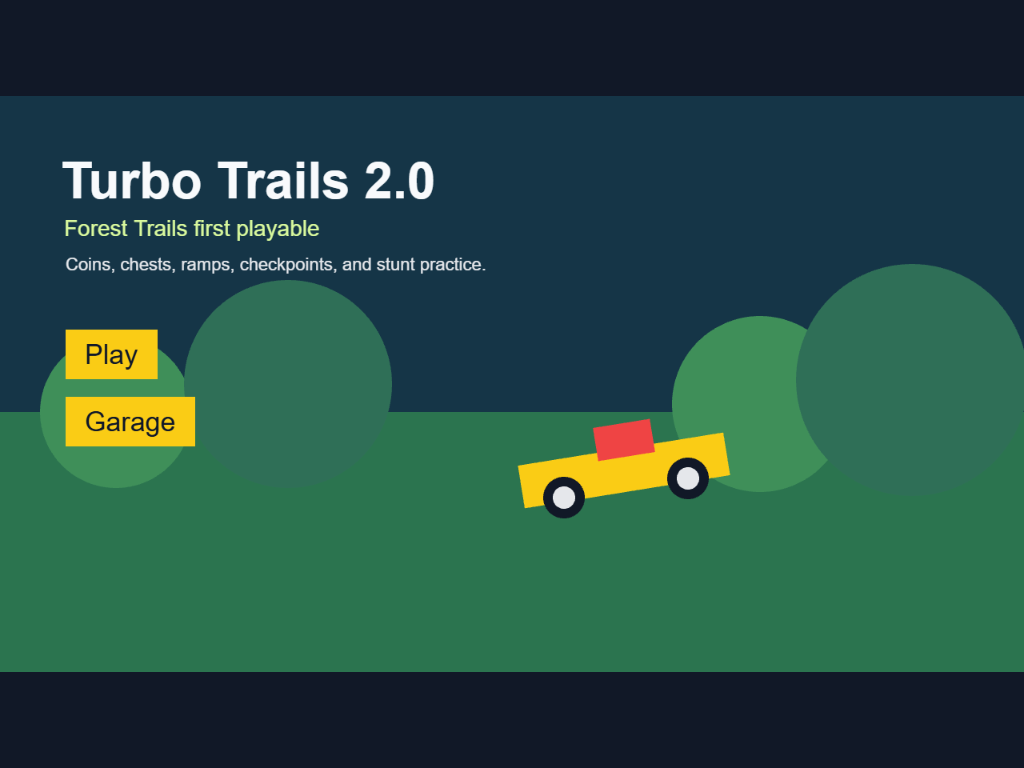
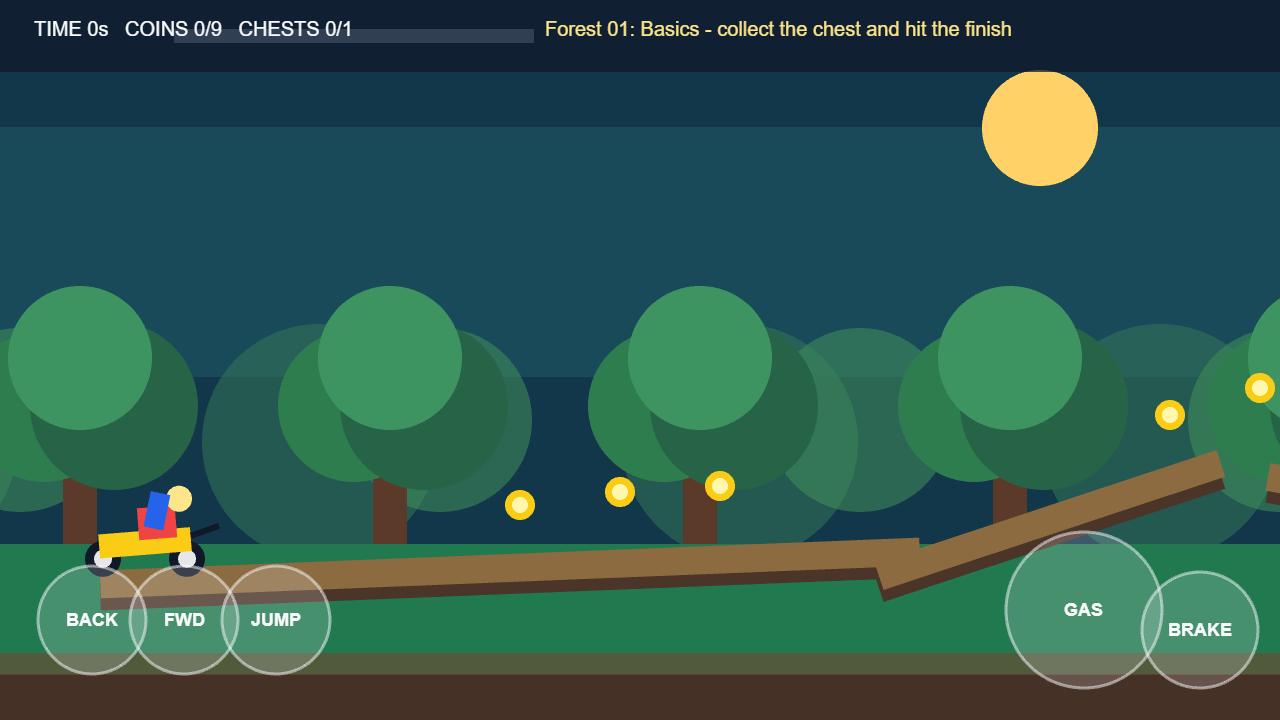
Add second forest level

diff --git a/src/data/levels/forest-02-first-flip.ts b/src/data/levels/forest-02-first-flip.ts
@@ -1,0 +1,48 @@
+import type { LevelDefinition } from '../../types/LevelDefinition';
+
+export const forest02FirstFlip: LevelDefinition = {
+  id: 'forest-02-first-flip',
+  title: 'Forest 02: First Flip',
+  worldId: 'forest',
+  targetTimes: {
+    threeStars: 34000,
+    twoStars: 50000,
+    oneStar: 70000,
+  },
+  bounds: {
+    width: 3400,
+    height: 720,
+  },
+  start: {
+    x: 145,
+    y: 486,
+    rotation: 0,
+  },
+  terrain: [
+    { id: 'start-run', x: 470, y: 570, width: 760, height: 28, rotation: -0.02, material: 'wood' },
+    { id: 'flip-ramp', x: 980, y: 500, width: 430, height: 28, rotation: -0.48, material: 'wood' },
+    { id: 'air-landing', x: 1600, y: 500, width: 470, height: 28, rotation: 0.16, material: 'wood' },
+    { id: 'checkpoint-run', x: 2110, y: 548, width: 560, height: 28, rotation: 0.04, material: 'wood' },
+    { id: 'second-kicker', x: 2600, y: 505, width: 340, height: 28, rotation: -0.34, material: 'wood' },
+    { id: 'finish-deck', x: 3100, y: 540, width: 470, height: 28, rotation: 0.08, material: 'wood' },
+  ],
+  objects: [
+    { type: 'coin', id: 'coin-1', x: 450, y: 510 },
+    { type: 'coin', id: 'coin-2', x: 550, y: 500 },
+    { type: 'coin', id: 'coin-3', x: 650, y: 494 },
+    { type: 'coin', id: 'coin-4', x: 1120, y: 365 },
+    { type: 'coin', id: 'coin-5', x: 1240, y: 320 },
+    { type: 'coin', id: 'coin-6', x: 1360, y: 330 },
+    { type: 'chest', id: 'chest-1', x: 1460, y: 348 },
+    { type: 'coin', id: 'coin-7', x: 2500, y: 420 },
+    { type: 'coin', id: 'coin-8', x: 2620, y: 370 },
+    { type: 'coin', id: 'coin-9', x: 2740, y: 390 },
+  ],
+  checkpoints: [{ id: 'checkpoint-1', x: 2050, y: 470, respawnX: 2050, respawnY: 470 }],
+  finish: {
+    x: 3260,
+    y: 456,
+    width: 64,
+    height: 150,
+  },
+};

diff --git a/src/scenes/GameScene.ts b/src/scenes/GameScene.ts
@@ -1,5 +1,5 @@
 import Phaser from 'phaser';
-import { forest01Basics } from '../data/levels/forest-01-basics';
+import { levels, type LevelId } from '../data/levels';
 import { vehicles } from '../data/vehicles';
 import { GAME_HEIGHT, isDebugEnabled } from '../game/constants';
 import { calculateScore, calculateStars } from '../systems/ScoreSystem';
@@ -28,6 +28,10 @@ interface CollectibleView {
   view: Phaser.GameObjects.GameObject & Phaser.GameObjects.Components.Visible;
 }
 
+interface GameScenePayload {
+  levelId?: LevelId;
+}
+
 export class GameScene extends Phaser.Scene {
   private inputController!: InputController;
   private bike!: Phaser.Physics.Matter.Image;
@@ -35,7 +39,7 @@ export class GameScene extends Phaser.Scene {
   private hudText!: Phaser.GameObjects.Text;
   private statusText!: Phaser.GameObjects.Text;
   private progressFill!: Phaser.GameObjects.Rectangle;
-  private readonly level: LevelDefinition = forest01Basics;
+  private level: LevelDefinition = levels['forest-01-basics'];
   private readonly vehicle: VehicleConfig = vehicles[0];
   private levelState: LevelRuntimeState = createLevelRuntimeState();
   private bikeContact: BikeContactState = createBikeContactState();
@@ -49,6 +53,10 @@ export class GameScene extends Phaser.Scene {
 
   constructor() {
     super('GameScene');
+  }
+
+  init(payload: GameScenePayload): void {
+    this.level = levels[payload.levelId ?? 'forest-01-basics'];
   }
 
   create(): void {

diff --git a/e2e/game-load.spec.ts b/e2e/game-load.spec.ts
@@ -42,3 +42,14 @@ test('opens garage placeholder from main menu', async ({ page }) => {
   await page.waitForTimeout(150);
   await expect(page.locator('canvas')).toBeVisible();
 });
+
+test('launches second forest level from level select', async ({ page }) => {
+  await page.goto('/');
+  await page.mouse.click(140, 325);
+  await page.waitForTimeout(100);
+  await page.mouse.click(180, 384);
+  await page.waitForTimeout(100);
+  await page.mouse.click(500, 360);
+  await page.waitForTimeout(250);
+  await expect(page.locator('canvas')).toBeVisible();
+});

diff --git a/src/tests/LevelState.test.ts b/src/tests/LevelState.test.ts
@@ -1,5 +1,6 @@
 import { describe, expect, it } from 'vitest';
 import { forest01Basics } from '../data/levels/forest-01-basics';
+import { levels } from '../data/levels';
 import { calculateLevelProgress, countObjects, createLevelRuntimeState } from '../systems/LevelState';
 
 describe('LevelState', () => {
@@ -18,5 +19,11 @@ describe('LevelState', () => {
   it('calculates progress from start to finish', () => {
     expect(calculateLevelProgress(forest01Basics, forest01Basics.start.x)).toBe(0);
     expect(calculateLevelProgress(forest01Basics, forest01Basics.finish.x)).toBe(1);
+  });
+
+  it('registers Forest 02 as a playable level', () => {
+    expect(levels['forest-02-first-flip'].title).toBe('Forest 02: First Flip');
+    expect(countObjects(levels['forest-02-first-flip'], 'coin')).toBe(9);
+    expect(countObjects(levels['forest-02-first-flip'], 'chest')).toBe(1);
   });
 });

diff --git a/src/data/levels/index.ts b/src/data/levels/index.ts
@@ -1,7 +1,9 @@
 import { forest01Basics } from './forest-01-basics';
+import { forest02FirstFlip } from './forest-02-first-flip';
 
 export const levels = {
   [forest01Basics.id]: forest01Basics,
+  [forest02FirstFlip.id]: forest02FirstFlip,
 };
 
 export type LevelId = keyof typeof levels;

diff --git a/src/data/worlds.ts b/src/data/worlds.ts
@@ -14,7 +14,7 @@ export const worlds: WorldDefinition[] = [
     subtitle: 'Tutorial ramps, coins, and first checkpoint.',
     status: 'available',
     color: 0x3f8f59,
-    levelIds: ['forest-01-basics'],
+    levelIds: ['forest-01-basics', 'forest-02-first-flip'],
   },
   {
     id: 'warehouse',

diff --git a/.project/projects/turbo-trails-first-playable/tasks/T-008-touch-portrait-polish.md b/.project/projects/turbo-trails-first-playable/tasks/T-008-touch-portrait-polish.md
@@ -1,0 +1,44 @@
+---
+id: T-008
+name: Touch and portrait polish
+status: ready
+created: 2026-05-02T09:24:00Z
+updated: 2026-05-02T09:24:00Z
+linear_issue_id:
+github_issue:
+github_pr:
+depends_on: [T-007]
+conflicts_with: []
+parallel: false
+priority: medium
+estimate: M
+---
+
+# Task: Touch and portrait polish
+
+## Description
+
+Add a portrait orientation warning and tighten touch-control behavior for the first playable.
+
+## Acceptance Criteria
+
+- [ ] Portrait viewport shows clear rotate-screen guidance.
+- [ ] Landscape viewport keeps gameplay visible.
+- [ ] Touch controls remain multi-touch capable.
+- [ ] Page scroll remains disabled.
+- [ ] `npm run build`, `npm run test`, and `npm run e2e` pass.
+
+## Technical Notes
+
+Use Phaser UI or CSS, whichever stays simpler and reliable in canvas.
+
+## Definition of Done
+
+- [ ] Implementation complete
+- [ ] Tests pass
+- [ ] Review complete
+- [ ] Docs updated
+
+## Evidence Log
+
+- 2026-05-02: Task created after second Forest level.

diff --git a/.project/projects/turbo-trails-first-playable/workstreams/WS-H-touch-and-portrait-polish.md b/.project/projects/turbo-trails-first-playable/workstreams/WS-H-touch-and-portrait-polish.md
@@ -1,0 +1,32 @@
+---
+name: WS-H Touch and Portrait Polish
+owner: team
+status: planned
+created: 2026-05-02T09:24:00Z
+updated: 2026-05-02T09:24:00Z
+---
+
+# Workstream: WS-H Touch and Portrait Polish
+
+## Objective
+
+Improve mobile/touch readiness with orientation guidance and cleaner touch control behavior.
+
+## Owned Files/Areas
+
+- `src/scenes/GameScene.ts`
+- `src/systems/InputController.ts`
+- `src/styles.css`
+- `e2e/`
+
+## Dependencies
+
+First two Forest levels.
+
+## Risks
+
+Do not overbuild responsive UI. Focus on clear landscape play and portrait warning.
+
+## Handoff Criteria
+
+Portrait view shows rotate guidance, landscape controls remain playable, and e2e still passes on desktop and touch emulation.

diff --git a/.project/projects/turbo-trails-first-playable/tasks/T-007-second-forest-level.md b/.project/projects/turbo-trails-first-playable/tasks/T-007-second-forest-level.md
@@ -1,7 +1,7 @@
 ---
 id: T-007
 name: Second Forest level
-status: ready
+status: done
 created: 2026-05-02T09:22:00Z
 updated: 2026-05-02T09:22:00Z
 linear_issue_id:
@@ -22,11 +22,11 @@ Add `forest-02-first-flip` as the second playable level and make `GameScene` hon
 
 ## Acceptance Criteria
 
-- [ ] `forest-02-first-flip` exists as level data.
-- [ ] Forest Level Select shows Forest 01 and Forest 02.
-- [ ] Selecting Forest 02 launches its own level data.
-- [ ] Results/save flow works for Forest 02.
-- [ ] `npm run build`, `npm run test`, and `npm run e2e` pass.
+- [x] `forest-02-first-flip` exists as level data.
+- [x] Forest Level Select shows Forest 01 and Forest 02.
+- [x] Selecting Forest 02 launches its own level data.
+- [x] Results/save flow works for Forest 02.
+- [x] `npm run build`, `npm run test`, and `npm run e2e` pass.
 
 ## Technical Notes
 
@@ -34,11 +34,15 @@ Keep visuals primitive. Focus on data-driven level selection and a higher ramp/c
 
 ## Definition of Done
 
-- [ ] Implementation complete
-- [ ] Tests pass
-- [ ] Review complete
-- [ ] Docs updated
+- [x] Implementation complete
+- [x] Tests pass
+- [x] Review complete
+- [x] Docs updated
 
 ## Evidence Log
 
 - 2026-05-02: Task created after first save/progression slice.
+- 2026-05-02: Added `forest-02-first-flip` level data.
+- 2026-05-02: `GameScene` now honors selected level id.
+- 2026-05-02: Added unit and e2e coverage for Forest 02.
+- 2026-05-02: `npm run build`, `npm run test`, and `npm run e2e` passed.

diff --git a/.project/projects/turbo-trails-first-playable/workstreams/WS-G-next-level-content.md b/.project/projects/turbo-trails-first-playable/workstreams/WS-G-next-level-content.md
@@ -1,7 +1,7 @@
 ---
 name: WS-G Next Level Content
 owner: team
-status: planned
+status: done
 created: 2026-05-02T09:22:00Z
 updated: 2026-05-02T09:22:00Z
 ---

diff --git a/.project/context/progress.md b/.project/context/progress.md
@@ -16,6 +16,7 @@
 - Added basic results flow with time, coins, chests, stars, retry, and menu actions.
 - Added first navigation flow: Main Menu -> World Select -> Level Select -> Forest 01, plus Garage placeholder.
 - Added local save of Forest 01 completion with best time, stars, best score, chest IDs, and level select completion display.
+- Added Forest 02: First Flip and wired GameScene to selected level ids.
 
 ## Next
 